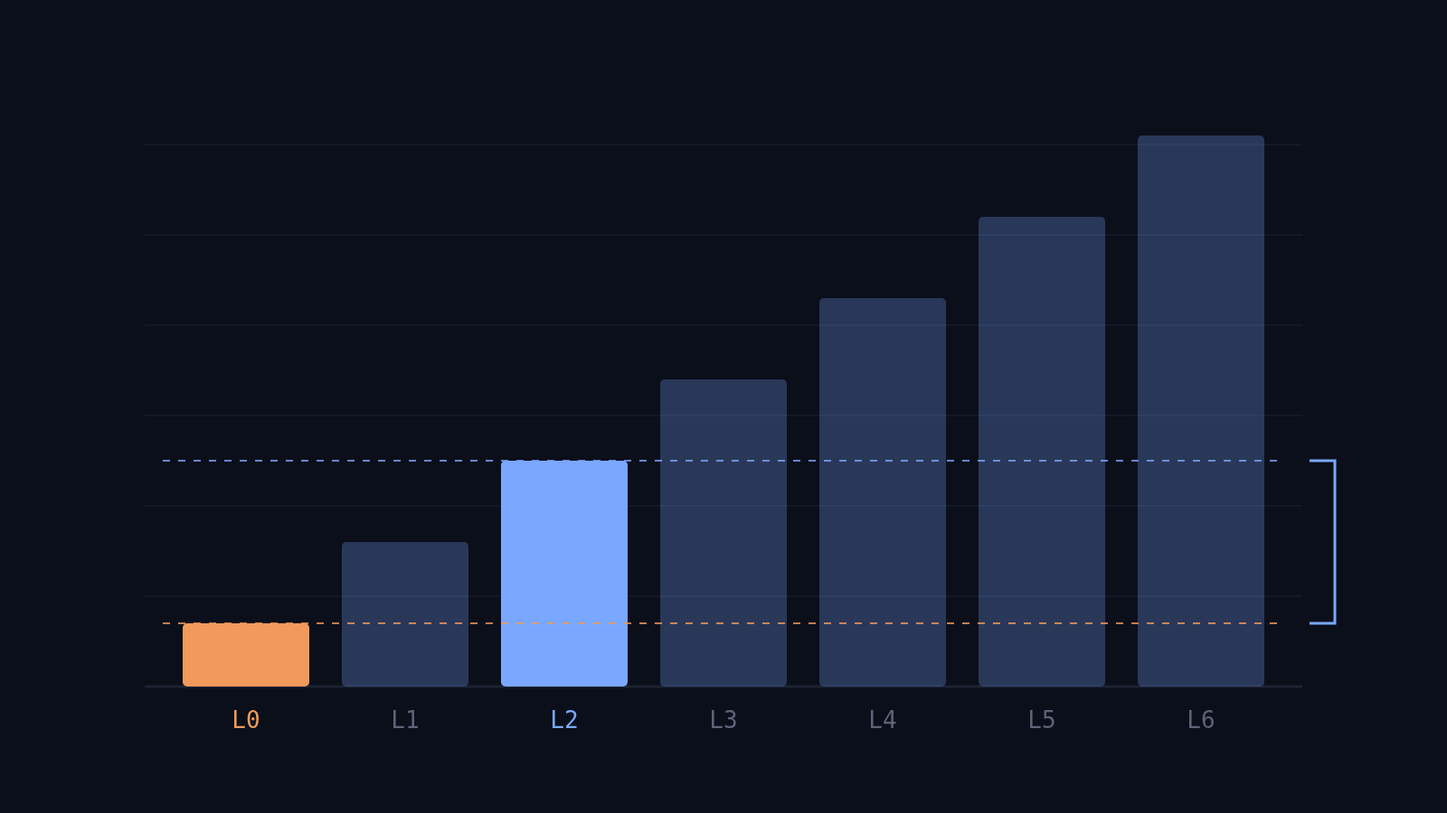
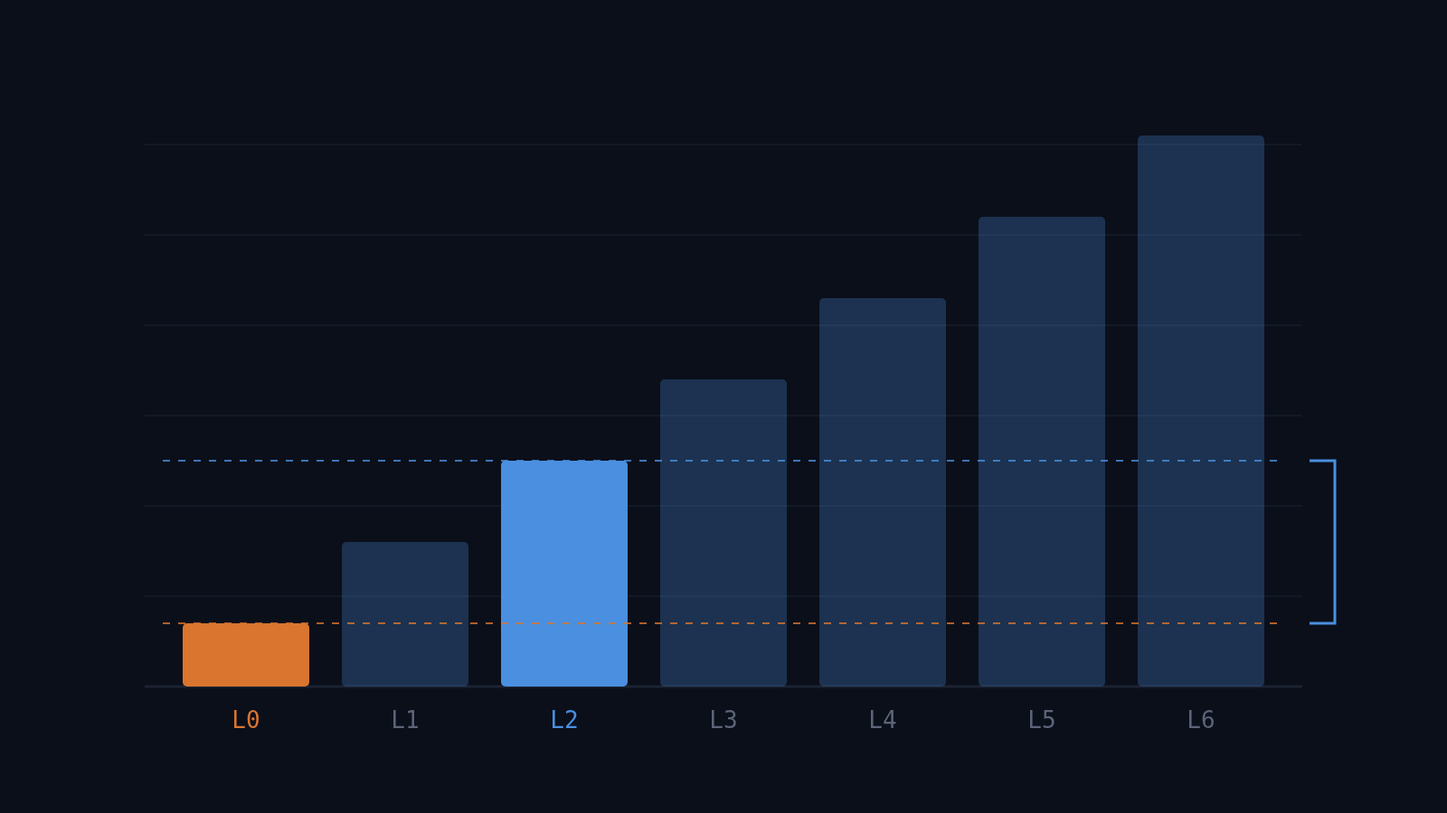
Rename to difficulty-is-an-information-gap; chart QA pass
Slug now matches the thesis instead of naming a stage. The old
building-a-synthetic-swe-factory-stage-1-go URL was live for minutes and
unshared, so no redirect.

Charts: add validated --chart-1/--chart-2/--chart-mute tokens to both themes.
The site accent fails the dark-mode OKLCH lightness band (0.733 and 0.762
against 0.48-0.67), so charts now use #4a8fe0/#d9752f there, which passes all
six checks. Regenerate all four figures: gray-the-rest emphasis instead of an
opacity ramp on nominal bars, solid hairline rules instead of dashed, a 2px
surface gap between stacked segments, native <title> tooltips on every mark,
and an ink label on the low-contrast segment.

Section 4 reframed around the dataset as an artifact: what a task contains,
what the filter removed, why it cannot be contaminated, what it cost.

Changed region(s): [[0.3438, 0.56, 0.4375, 0.9022], [0.125, 0.7467, 0.2188, 0.9022]]

diff --git a/src/styles.css b/src/styles.css
@@ -24,6 +24,9 @@
   --code-bg: #f4f3ee;
   --hi: #fff3d6;
   --shadow: 0 1px 2px rgba(0, 0, 0, .04);
+  --chart-1: #1f5fbf;
+  --chart-2: #b6541e;
+  --chart-mute: #b9b6ad;
   color-scheme: light;
 }
 
@@ -39,6 +42,9 @@
   --code-bg: #16181d;
   --hi: #2a2410;
   --shadow: none;
+  --chart-1: #4a8fe0;
+  --chart-2: #d9752f;
+  --chart-mute: #4d5260;
   color-scheme: dark;
 }
 

diff --git a/src/writings/difficulty-is-an-information-gap.md b/src/writings/difficulty-is-an-information-gap.md
@@ -12,7 +12,7 @@ tags:
   - coding-agents
 source_url: https://github.com/Evan-Kim2028/open_swe_traces_research
 source_platform: github
-slug: building-a-synthetic-swe-factory-stage-1-go
+slug: difficulty-is-an-information-gap
 description: "Stage 1: Go, nine repositories, 527 tasks. A coding task is hard because of what its prompt leaves out, and that gap can be set on purpose and measured."
 series: Evals
 series_index: 3
@@ -59,37 +59,33 @@ level is visible. Seven levels, because that is how many distinct kinds of help 
 actually use, ordered from the least specific to the most.
 
 <figure class="fig-inline">
-<svg viewBox="0 0 720 350" role="img" aria-label="Seven ascending steps labelled L0 to L6. Height is how much the model is told. L0, a bug report, is marked fail. L2, a full description, is marked pass. The distance between them is labelled the gap.">
-  <g fill="var(--accent)" opacity="0.22">
-    <rect x="60" y="256" width="84" height="26"/>
-    <rect x="150" y="224" width="84" height="58"/>
-    <rect x="240" y="192" width="84" height="90"/>
-    <rect x="330" y="160" width="84" height="122"/>
-    <rect x="420" y="128" width="84" height="154"/>
-    <rect x="510" y="96" width="84" height="186"/>
-    <rect x="600" y="64" width="84" height="218"/>
-  </g>
-  <rect x="60" y="256" width="84" height="26" fill="var(--accent-2)"/>
-  <rect x="240" y="192" width="84" height="90" fill="var(--accent)"/>
-  <line x1="60" y1="282" x2="700" y2="282" stroke="var(--line)" stroke-width="1.5"/>
-  <line x1="144" y1="256" x2="352" y2="256" stroke="var(--text-3)" stroke-width="1" stroke-dasharray="3 4"/>
-  <line x1="324" y1="192" x2="352" y2="192" stroke="var(--text-3)" stroke-width="1" stroke-dasharray="3 4"/>
-  <path d="M352 256 L362 256 L362 192 L352 192" fill="none" stroke="var(--text-2)" stroke-width="1.5"/>
-  <text x="372" y="219" fill="var(--text)" font-size="13" font-weight="700" font-family="var(--font-sans)">the gap</text>
-  <text x="372" y="236" fill="var(--text-3)" font-size="12" font-family="var(--font-sans)">what L2 adds</text>
-  <g font-size="13" font-family="var(--font-mono)" fill="var(--text-2)" text-anchor="middle">
-    <text x="102" y="302">L0</text><text x="192" y="302">L1</text><text x="282" y="302">L2</text>
-    <text x="372" y="302">L3</text><text x="462" y="302">L4</text><text x="552" y="302">L5</text>
-    <text x="642" y="302">L6</text>
-  </g>
-  <g font-size="12" font-family="var(--font-sans)" fill="var(--text-3)" text-anchor="middle">
-    <text x="102" y="320">bug</text><text x="102" y="334">report</text>
-    <text x="282" y="320">full</text><text x="282" y="334">description</text>
-    <text x="642" y="320">all</text><text x="642" y="334">tests</text>
-  </g>
-  <text x="102" y="248" fill="var(--accent-2)" font-size="12" font-weight="700" text-anchor="middle" font-family="var(--font-sans)">FAILS</text>
-  <text x="282" y="184" fill="var(--accent)" font-size="12" font-weight="700" text-anchor="middle" font-family="var(--font-sans)">PASSES</text>
-  <text x="20" y="180" fill="var(--text-3)" font-size="12" font-family="var(--font-sans)" transform="rotate(-90 20 180)" text-anchor="middle">information given</text>
+<svg viewBox="0 0 720 348" role="img" aria-label="Seven ascending bars labelled L0 to L6 showing how much the model is told. L0, a bug report, is marked fails. L2, a full description, is marked passes. A bracket between their tops is labelled the gap.">
+<rect x="60" y="256" width="84" height="26" rx="4" fill="var(--chart-2)" opacity="1"><title>L0</title></rect>
+<rect x="150" y="224" width="84" height="58" rx="4" fill="var(--chart-mute)" opacity="0.42"><title>L1</title></rect>
+<rect x="240" y="192" width="84" height="90" rx="4" fill="var(--chart-1)" opacity="1"><title>L2</title></rect>
+<rect x="330" y="160" width="84" height="122" rx="4" fill="var(--chart-mute)" opacity="0.42"><title>L3</title></rect>
+<rect x="420" y="128" width="84" height="154" rx="4" fill="var(--chart-mute)" opacity="0.42"><title>L4</title></rect>
+<rect x="510" y="96" width="84" height="186" rx="4" fill="var(--chart-mute)" opacity="0.42"><title>L5</title></rect>
+<rect x="600" y="64" width="84" height="218" rx="4" fill="var(--chart-mute)" opacity="0.42"><title>L6</title></rect>
+<line x1="60" y1="282" x2="700" y2="282" stroke="var(--line)" stroke-width="1.5"/>
+<line x1="144" y1="256" x2="352" y2="256" stroke="var(--chart-2)" stroke-width="1.5" opacity="0.65"/>
+<line x1="324" y1="192" x2="352" y2="192" stroke="var(--chart-1)" stroke-width="1.5" opacity="0.65"/>
+<path d="M352 256 L362 256 L362 192 L352 192" fill="none" stroke="var(--text-2)" stroke-width="1.5"/>
+<text x="374" y="223" fill="var(--text)" font-size="13" font-weight="700" font-family="var(--font-sans)">the gap</text>
+<text x="374" y="240" fill="var(--text-3)" font-size="12" font-family="var(--font-sans)">what L2 adds</text>
+<text x="102" y="302" text-anchor="middle" fill="var(--chart-2)" font-size="13" font-family="var(--font-mono)">L0</text>
+<text x="102" y="320" text-anchor="middle" fill="var(--text-3)" font-size="12" font-family="var(--font-sans)">bug report</text>
+<text x="192" y="302" text-anchor="middle" fill="var(--text-3)" font-size="13" font-family="var(--font-mono)">L1</text>
+<text x="282" y="302" text-anchor="middle" fill="var(--chart-1)" font-size="13" font-family="var(--font-mono)">L2</text>
+<text x="282" y="320" text-anchor="middle" fill="var(--text-3)" font-size="12" font-family="var(--font-sans)">full description</text>
+<text x="372" y="302" text-anchor="middle" fill="var(--text-3)" font-size="13" font-family="var(--font-mono)">L3</text>
+<text x="462" y="302" text-anchor="middle" fill="var(--text-3)" font-size="13" font-family="var(--font-mono)">L4</text>
+<text x="552" y="302" text-anchor="middle" fill="var(--text-3)" font-size="13" font-family="var(--font-mono)">L5</text>
+<text x="642" y="302" text-anchor="middle" fill="var(--text-3)" font-size="13" font-family="var(--font-mono)">L6</text>
+<text x="642" y="320" text-anchor="middle" fill="var(--text-3)" font-size="12" font-family="var(--font-sans)">all tests</text>
+<text x="102" y="246" fill="var(--chart-2)" font-size="12" font-weight="700" text-anchor="middle" font-family="var(--font-sans)">FAILS</text>
+<text x="282" y="182" fill="var(--chart-1)" font-size="12" font-weight="700" text-anchor="middle" font-family="var(--font-sans)">PASSES</text>
+<text x="20" y="176" fill="var(--text-3)" font-size="12" font-family="var(--font-sans)" transform="rotate(-90 20 176)" text-anchor="middle">information given</text>
 </svg>
 <figcaption>Each level adds one kind of information about the removed behavior. A certificate is a failure at L0 and a pass at L2 by the same model. The distance between those two bars is the difficulty.</figcaption>
 </figure>
@@ -266,60 +262,79 @@ Agent-side web tools run on the vendor’s servers and cannot be blocked from in
 
 ## The synthetic dataset
 
-### Yield
+### What a task contains
+
+139 certified tasks so far, cut from nine Go repositories: client-go, kops, helm, go-git,
+go-github, goa, gin, bbolt, and nats-server. Kubernetes tooling, version control, API design,
+storage, HTTP services, and messaging.
+
+Each task ships as a Docker environment plus five artifacts. The repository with the behavior
+removed. A bug report, which is the L0 prompt. A written description of every behavior the tests
+check, which is the L2 prompt. A hidden test suite that only calls exported functions. And the
+answer key, the code that was cut.
+
+These are not toy edits. The median answer key is 127 lines, most fall between 80 and 320, and a
+quarter touch two or more files.
+
+Every task also carries the model that certified it. 124 of the 139 had the same model fail L0 and
+pass L2, which is the clean claim. The other 15 failed L0 on one model and passed L2 on another,
+which might be an information gap or a capability gap, so they are labelled separately rather than
+pooled.
+
+### What the filter removed
 
 <figure class="fig-inline">
-<svg viewBox="0 0 720 300" role="img" aria-label="A funnel. 527 tasks authored, 339 trialled, 299 decided, 139 certified. The 299 decided tasks split into 131 solved from the bug report, 139 certified, and 29 that failed both prompts.">
-  <g font-family="var(--font-sans)" font-size="13">
-    <text x="112" y="34" text-anchor="end" fill="var(--text-2)">authored</text>
-    <rect x="124" y="20" width="528" height="22" fill="var(--accent)" opacity="0.30"/>
-    <text x="662" y="36" fill="var(--text)" font-family="var(--font-mono)" font-weight="600">527</text>
-    <text x="112" y="68" text-anchor="end" fill="var(--text-2)">trialled</text>
-    <rect x="124" y="54" width="340" height="22" fill="var(--accent)" opacity="0.45"/>
-    <text x="474" y="70" fill="var(--text)" font-family="var(--font-mono)" font-weight="600">339</text>
-    <text x="112" y="102" text-anchor="end" fill="var(--text-2)">decided</text>
-    <rect x="124" y="88" width="300" height="22" fill="var(--accent)" opacity="0.60"/>
-    <text x="434" y="104" fill="var(--text)" font-family="var(--font-mono)" font-weight="600">299</text>
-    <text x="112" y="136" text-anchor="end" fill="var(--text-2)">certified</text>
-    <rect x="124" y="122" width="139" height="22" fill="var(--accent)"/>
-    <text x="273" y="138" fill="var(--text)" font-family="var(--font-mono)" font-weight="600">139</text>
-  </g>
-  <line x1="124" y1="176" x2="652" y2="176" stroke="var(--line)" stroke-width="1"/>
-  <text x="124" y="204" fill="var(--text-3)" font-size="12" font-family="var(--font-sans)">the 299 decided tasks</text>
-  <rect x="124" y="216" width="231" height="34" fill="var(--accent-2)" opacity="0.55"/>
-  <rect x="355" y="216" width="245" height="34" fill="var(--accent)"/>
-  <rect x="600" y="216" width="52" height="34" fill="var(--text-2)"/>
-  <g font-family="var(--font-mono)" font-size="13" font-weight="600" fill="var(--bg)" text-anchor="middle">
-    <text x="239" y="238">131</text><text x="477" y="238">139</text><text x="626" y="238">29</text>
-  </g>
-  <g font-family="var(--font-sans)" font-size="12" fill="var(--text-2)" text-anchor="middle">
-    <text x="239" y="270">solved from the</text><text x="239" y="284">bug report alone</text>
-    <text x="477" y="270">failed L0, passed L2</text><text x="477" y="284">certified</text>
-    <text x="626" y="270">failed</text><text x="626" y="284">both</text>
-  </g>
+<svg viewBox="0 0 720 300" role="img" aria-label="Funnel: 527 authored, 339 trialled, 299 decided, 139 certified. The 299 decided split into 131 solved from the bug report, 139 certified, and 29 that failed both prompts.">
+<text x="112" y="36" text-anchor="end" fill="var(--text-2)" font-size="13" font-family="var(--font-sans)">authored</text>
+<rect x="124" y="20" width="528" height="22" rx="3" fill="var(--chart-1)" opacity="0.34"><title>authored: 527</title></rect>
+<text x="662" y="36" fill="var(--text)" font-size="13" font-weight="600" font-family="var(--font-mono)">527</text>
+<text x="112" y="70" text-anchor="end" fill="var(--text-2)" font-size="13" font-family="var(--font-sans)">trialled</text>
+<rect x="124" y="54" width="340" height="22" rx="3" fill="var(--chart-1)" opacity="0.34"><title>trialled: 339</title></rect>
+<text x="474" y="70" fill="var(--text)" font-size="13" font-weight="600" font-family="var(--font-mono)">339</text>
+<text x="112" y="104" text-anchor="end" fill="var(--text-2)" font-size="13" font-family="var(--font-sans)">decided</text>
+<rect x="124" y="88" width="300" height="22" rx="3" fill="var(--chart-1)" opacity="0.34"><title>decided: 299</title></rect>
+<text x="434" y="104" fill="var(--text)" font-size="13" font-weight="600" font-family="var(--font-mono)">299</text>
+<text x="112" y="138" text-anchor="end" fill="var(--text-2)" font-size="13" font-family="var(--font-sans)">certified</text>
+<rect x="124" y="122" width="139" height="22" rx="3" fill="var(--chart-1)" opacity="1"><title>certified: 139</title></rect>
+<text x="273" y="138" fill="var(--text)" font-size="13" font-weight="600" font-family="var(--font-mono)">139</text>
+<line x1="124" y1="176" x2="652" y2="176" stroke="var(--line)" stroke-width="1"/>
+<text x="124" y="202" fill="var(--text-3)" font-size="12" font-family="var(--font-sans)">the 299 decided tasks</text>
+<rect x="124" y="214" width="229" height="34" rx="3" fill="var(--chart-2)"><title>solved from the bug report alone: 131</title></rect>
+<text x="238" y="236" text-anchor="middle" fill="var(--bg)" font-size="13" font-weight="600" font-family="var(--font-mono)">131</text>
+<text x="238" y="268" text-anchor="middle" fill="var(--text-2)" font-size="12" font-family="var(--font-sans)">solved from the</text>
+<text x="238" y="282" text-anchor="middle" fill="var(--text-2)" font-size="12" font-family="var(--font-sans)">bug report alone</text>
+<rect x="355" y="214" width="243" height="34" rx="3" fill="var(--chart-1)"><title>failed L0, passed L2 certified: 139</title></rect>
+<text x="476" y="236" text-anchor="middle" fill="var(--bg)" font-size="13" font-weight="600" font-family="var(--font-mono)">139</text>
+<text x="476" y="268" text-anchor="middle" fill="var(--text-2)" font-size="12" font-family="var(--font-sans)">failed L0, passed L2</text>
+<text x="476" y="282" text-anchor="middle" fill="var(--text-2)" font-size="12" font-family="var(--font-sans)">certified</text>
+<rect x="600" y="214" width="50" height="34" rx="3" fill="var(--chart-mute)"><title>failed both: 29</title></rect>
+<text x="625" y="236" text-anchor="middle" fill="var(--text)" font-size="13" font-weight="600" font-family="var(--font-mono)">29</text>
+<text x="625" y="268" text-anchor="middle" fill="var(--text-2)" font-size="12" font-family="var(--font-sans)">failed</text>
+<text x="625" y="282" text-anchor="middle" fill="var(--text-2)" font-size="12" font-family="var(--font-sans)">both</text>
 </svg>
 <figcaption>527 authored tasks produce 139 certificates. The screen and the certificate remove about as much as each other: 131 tasks were never hard, and 29 failed both prompts.</figcaption>
 </figure>
 
-Nearly half of what a careful pipeline authors is already solvable from a symptom report. Any
-generator shipping unscreened tasks is shipping a lot of freebies and cannot tell you which ones.
+Of the 299 decided tasks, 131 were solved from the bug report alone and never reached the
+certificate. Nearly half of what a careful pipeline authors is already solvable from a symptom
+report. Any generator shipping unscreened tasks is shipping a lot of freebies and cannot tell you
+which ones. The 29 that failed both prompts came out too, and every one audited turned out to be a
+defective description rather than an impossible task.
 
-Each certificate names its model. 124 of the 139 had the same model on both ends, which is the
-clean claim. The other 15 failed L0 on one model and passed L2 on another, which might be an
-information gap or a capability gap. Those are kept and labelled separately.
+Roughly one authored task in four survives to the dataset. The screen and the certificate each
+remove about as much as the other.
 
-### Provenance
+### Why it cannot be contaminated
 
 Across 1,545 task files there are zero references to issues, pull requests, or CVEs. The answer
 keys are 102,586 added lines against 638 non-stub deletions, because restoring removed code is
-almost entirely addition. These tasks cannot be in anyone’s training set, because they did not
-exist until the cut was made.
+almost entirely addition. No task in this dataset can sit in any model's training data, because
+none of them existed until the cut was made.
 
-They are also not toys. The median answer key is 127 lines, most fall between 80 and 320, and a
-quarter touch two or more files. The nine repositories are client-go, kops, helm, go-git,
-go-github, goa, gin, bbolt, and nats-server.
+That separates the dataset from anything mined out of GitHub history, where the fix a model is
+asked to produce may already be in its weights.
 
-### Cost
+### What it cost to produce
 
 | Stage | Runs | Input | Output | Cache hit | Cost | $/run |
 |---|---:|---:|---:|---:|---:|---:|
@@ -334,7 +349,7 @@ Output is 0.74% of input. These runs are almost entirely a model reading a repos
 token bill is a reading bill, and anything that shortens what the model must read is worth more
 than anything that shortens what it writes. The 97.4% cache hit rate is what makes the whole
 project affordable at all: the repository context repeats across every run of a task, and at list
-prices without caching this bank would have cost roughly ten times as much.
+prices without caching this dataset would have cost roughly ten times as much.
 
 The levels above L2 cost twice as much per run, $0.86 against $0.43, because their prompts carry
 test names and test bodies. Climbing the ladder costs money on both ends, in prompt size and in
@@ -342,30 +357,30 @@ runs. It also explains the shape of the spending, because almost every run sits 
 the certificate needs.
 
 <figure class="fig-inline">
-<svg viewBox="0 0 720 300" role="img" aria-label="Runs per information level. L0 has 461 runs and L2 has 613. The other five levels together have 113.">
-<rect x="110" y="104" width="56" height="128" rx="3" fill="var(--accent-2)" opacity="1"/>
-<text x="138" y="96" text-anchor="middle" fill="var(--text)" font-size="12" font-weight="600" font-family="var(--font-mono)">461</text>
-<text x="138" y="252" text-anchor="middle" fill="var(--text-2)" font-size="13" font-family="var(--font-mono)">L0</text>
-<rect x="194" y="228" width="56" height="4" rx="3" fill="var(--text-3)" opacity="0.55"/>
-<text x="222" y="220" text-anchor="middle" fill="var(--text)" font-size="12" font-weight="600" font-family="var(--font-mono)">16</text>
-<text x="222" y="252" text-anchor="middle" fill="var(--text-2)" font-size="13" font-family="var(--font-mono)">L1</text>
-<rect x="278" y="62" width="56" height="170" rx="3" fill="var(--accent)" opacity="1"/>
-<text x="306" y="54" text-anchor="middle" fill="var(--text)" font-size="12" font-weight="600" font-family="var(--font-mono)">613</text>
-<text x="306" y="252" text-anchor="middle" fill="var(--text-2)" font-size="13" font-family="var(--font-mono)">L2</text>
-<rect x="362" y="225" width="56" height="7" rx="3" fill="var(--text-3)" opacity="0.55"/>
-<text x="390" y="217" text-anchor="middle" fill="var(--text)" font-size="12" font-weight="600" font-family="var(--font-mono)">24</text>
-<text x="390" y="252" text-anchor="middle" fill="var(--text-2)" font-size="13" font-family="var(--font-mono)">L3</text>
-<rect x="446" y="229" width="56" height="3" rx="3" fill="var(--text-3)" opacity="0.55"/>
-<text x="474" y="221" text-anchor="middle" fill="var(--text)" font-size="12" font-weight="600" font-family="var(--font-mono)">12</text>
-<text x="474" y="252" text-anchor="middle" fill="var(--text-2)" font-size="13" font-family="var(--font-mono)">L4</text>
-<rect x="530" y="222" width="56" height="10" rx="3" fill="var(--text-3)" opacity="0.55"/>
-<text x="558" y="214" text-anchor="middle" fill="var(--text)" font-size="12" font-weight="600" font-family="var(--font-mono)">36</text>
-<text x="558" y="252" text-anchor="middle" fill="var(--text-2)" font-size="13" font-family="var(--font-mono)">L5</text>
-<rect x="614" y="225" width="56" height="7" rx="3" fill="var(--text-3)" opacity="0.55"/>
-<text x="642" y="217" text-anchor="middle" fill="var(--text)" font-size="12" font-weight="600" font-family="var(--font-mono)">25</text>
-<text x="642" y="252" text-anchor="middle" fill="var(--text-2)" font-size="13" font-family="var(--font-mono)">L6</text>
-<line x1="96" y1="232" x2="700" y2="232" stroke="var(--line)" stroke-width="1.5"/>
-<text x="360" y="268" text-anchor="middle" fill="var(--text-3)" font-size="12" font-family="var(--font-sans)">the deciding pair carries 90% of the runs; the rest of the ladder is thinly sampled</text>
+<svg viewBox="0 0 720 286" role="img" aria-label="Runs per information level. L0 has 461 runs and L2 has 613. The other five levels together have 113.">
+<rect x="110" y="101" width="56" height="123" rx="3" fill="var(--chart-2)" opacity="1"><title>L0: 461 runs</title></rect>
+<text x="138" y="93" text-anchor="middle" fill="var(--text)" font-size="12" font-weight="600" font-family="var(--font-mono)">461</text>
+<text x="138" y="244" text-anchor="middle" fill="var(--chart-2)" font-size="13" font-family="var(--font-mono)">L0</text>
+<rect x="194" y="220" width="56" height="4" rx="3" fill="var(--chart-mute)" opacity="0.55"><title>L1: 16 runs</title></rect>
+<text x="222" y="212" text-anchor="middle" fill="var(--text)" font-size="12" font-weight="600" font-family="var(--font-mono)">16</text>
+<text x="222" y="244" text-anchor="middle" fill="var(--text-3)" font-size="13" font-family="var(--font-mono)">L1</text>
+<rect x="278" y="60" width="56" height="164" rx="3" fill="var(--chart-1)" opacity="1"><title>L2: 613 runs</title></rect>
+<text x="306" y="52" text-anchor="middle" fill="var(--text)" font-size="12" font-weight="600" font-family="var(--font-mono)">613</text>
+<text x="306" y="244" text-anchor="middle" fill="var(--chart-1)" font-size="13" font-family="var(--font-mono)">L2</text>
+<rect x="362" y="218" width="56" height="6" rx="3" fill="var(--chart-mute)" opacity="0.55"><title>L3: 24 runs</title></rect>
+<text x="390" y="210" text-anchor="middle" fill="var(--text)" font-size="12" font-weight="600" font-family="var(--font-mono)">24</text>
+<text x="390" y="244" text-anchor="middle" fill="var(--text-3)" font-size="13" font-family="var(--font-mono)">L3</text>
+<rect x="446" y="221" width="56" height="3" rx="3" fill="var(--chart-mute)" opacity="0.55"><title>L4: 12 runs</title></rect>
+<text x="474" y="213" text-anchor="middle" fill="var(--text)" font-size="12" font-weight="600" font-family="var(--font-mono)">12</text>
+<text x="474" y="244" text-anchor="middle" fill="var(--text-3)" font-size="13" font-family="var(--font-mono)">L4</text>
+<rect x="530" y="214" width="56" height="10" rx="3" fill="var(--chart-mute)" opacity="0.55"><title>L5: 36 runs</title></rect>
+<text x="558" y="206" text-anchor="middle" fill="var(--text)" font-size="12" font-weight="600" font-family="var(--font-mono)">36</text>
+<text x="558" y="244" text-anchor="middle" fill="var(--text-3)" font-size="13" font-family="var(--font-mono)">L5</text>
+<rect x="614" y="217" width="56" height="7" rx="3" fill="var(--chart-mute)" opacity="0.55"><title>L6: 25 runs</title></rect>
+<text x="642" y="209" text-anchor="middle" fill="var(--text)" font-size="12" font-weight="600" font-family="var(--font-mono)">25</text>
+<text x="642" y="244" text-anchor="middle" fill="var(--text-3)" font-size="13" font-family="var(--font-mono)">L6</text>
+<line x1="96" y1="224" x2="700" y2="224" stroke="var(--line)" stroke-width="1.5"/>
+<text x="398" y="262" text-anchor="middle" fill="var(--text-3)" font-size="12" font-family="var(--font-sans)">the deciding pair carries 90% of the runs; the rest of the ladder is thinly sampled</text>
 </svg>
 <figcaption>Runs per level, 1,187 scored runs. L0 and L2 take 1,074 of them. L1 and L3 through L6 share 113, which is why the shape of the curve between them stays unmeasured.</figcaption>
 </figure>
@@ -374,19 +389,19 @@ the certificate needs.
 the 8.3 runs each certificate actually took, so 73% of tokens paid for runs past the deciding pair:
 39% re-running L2 after repairing a description, 15% re-running L0, 19% exploring other levels.
 <figure class="fig-inline">
-<svg viewBox="0 0 720 250" role="img" aria-label="Runs needed per certificate. Parallel with no gate 9.0, sequential with no gate 7.7, sequential with a gate 3.2, against a floor of 2.">
-<text x="246" y="56" text-anchor="end" fill="var(--text-2)" font-size="13" font-family="var(--font-sans)">parallel, no gate</text>
-<rect x="260" y="34" width="396" height="32" rx="3" fill="var(--text-3)" opacity="0.55"/>
-<text x="666" y="56" fill="var(--text)" font-size="14" font-weight="600" font-family="var(--font-mono)">9.0</text>
-<text x="246" y="110" text-anchor="end" fill="var(--text-2)" font-size="13" font-family="var(--font-sans)">sequential, no gate</text>
-<rect x="260" y="88" width="339" height="32" rx="3" fill="var(--text-3)" opacity="0.55"/>
-<text x="609" y="110" fill="var(--text)" font-size="14" font-weight="600" font-family="var(--font-mono)">7.7</text>
-<text x="246" y="164" text-anchor="end" fill="var(--text-2)" font-size="13" font-family="var(--font-sans)">sequential, gated</text>
-<rect x="260" y="142" width="141" height="32" rx="3" fill="var(--accent)" opacity="1"/>
-<text x="411" y="164" fill="var(--text)" font-size="14" font-weight="600" font-family="var(--font-mono)">3.2</text>
-<line x1="348" y1="20" x2="348" y2="212" stroke="var(--accent-2)" stroke-width="2" stroke-dasharray="5 5"/>
-<text x="356" y="208" fill="var(--accent-2)" font-size="12" font-family="var(--font-sans)">floor of 2</text>
-<text x="490" y="238" text-anchor="middle" fill="var(--text-3)" font-size="12" font-family="var(--font-sans)">runs per certificate</text>
+<svg viewBox="0 0 720 236" role="img" aria-label="Runs needed per certificate: parallel with no gate 9.0, sequential with no gate 7.7, sequential with a gate 3.2, against a floor of 2.">
+<text x="248" y="49" text-anchor="end" fill="var(--text-2)" font-size="13" font-family="var(--font-sans)">parallel, no gate</text>
+<rect x="262" y="28" width="378" height="30" rx="3" fill="var(--chart-mute)" opacity="0.6"><title>parallel, no gate: 9.0 runs per certificate</title></rect>
+<text x="650" y="49" fill="var(--text)" font-size="14" font-weight="600" font-family="var(--font-mono)">9.0</text>
+<text x="248" y="101" text-anchor="end" fill="var(--text-2)" font-size="13" font-family="var(--font-sans)">sequential, no gate</text>
+<rect x="262" y="80" width="323" height="30" rx="3" fill="var(--chart-mute)" opacity="0.6"><title>sequential, no gate: 7.7 runs per certificate</title></rect>
+<text x="595" y="101" fill="var(--text)" font-size="14" font-weight="600" font-family="var(--font-mono)">7.7</text>
+<text x="248" y="153" text-anchor="end" fill="var(--text-2)" font-size="13" font-family="var(--font-sans)">sequential, gated</text>
+<rect x="262" y="132" width="134" height="30" rx="3" fill="var(--chart-1)" opacity="1"><title>sequential, gated: 3.2 runs per certificate</title></rect>
+<text x="406" y="153" fill="var(--text)" font-size="14" font-weight="600" font-family="var(--font-mono)">3.2</text>
+<line x1="346" y1="16" x2="346" y2="192" stroke="var(--chart-2)" stroke-width="2"/>
+<text x="354" y="188" fill="var(--chart-2)" font-size="12" font-family="var(--font-sans)">floor of 2</text>
+<text x="480" y="222" text-anchor="middle" fill="var(--text-3)" font-size="12" font-family="var(--font-sans)">runs per certificate</text>
 </svg>
 <figcaption>Runs spent per certificate under three schedules. Refusing a run whose outcome is already determined is worth about 4×. Running trials in sequence, on its own, is worth almost nothing.</figcaption>
 </figure>
